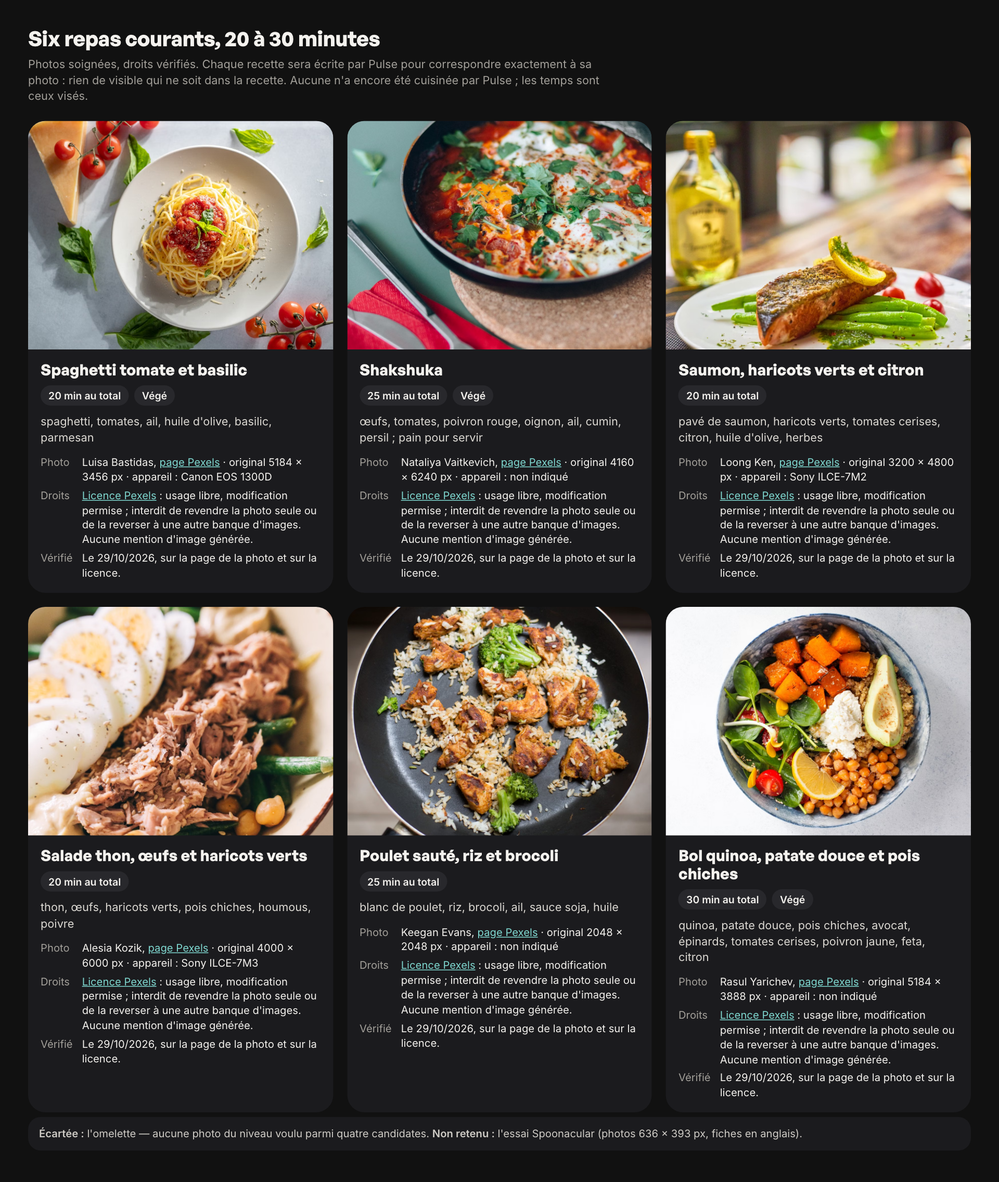
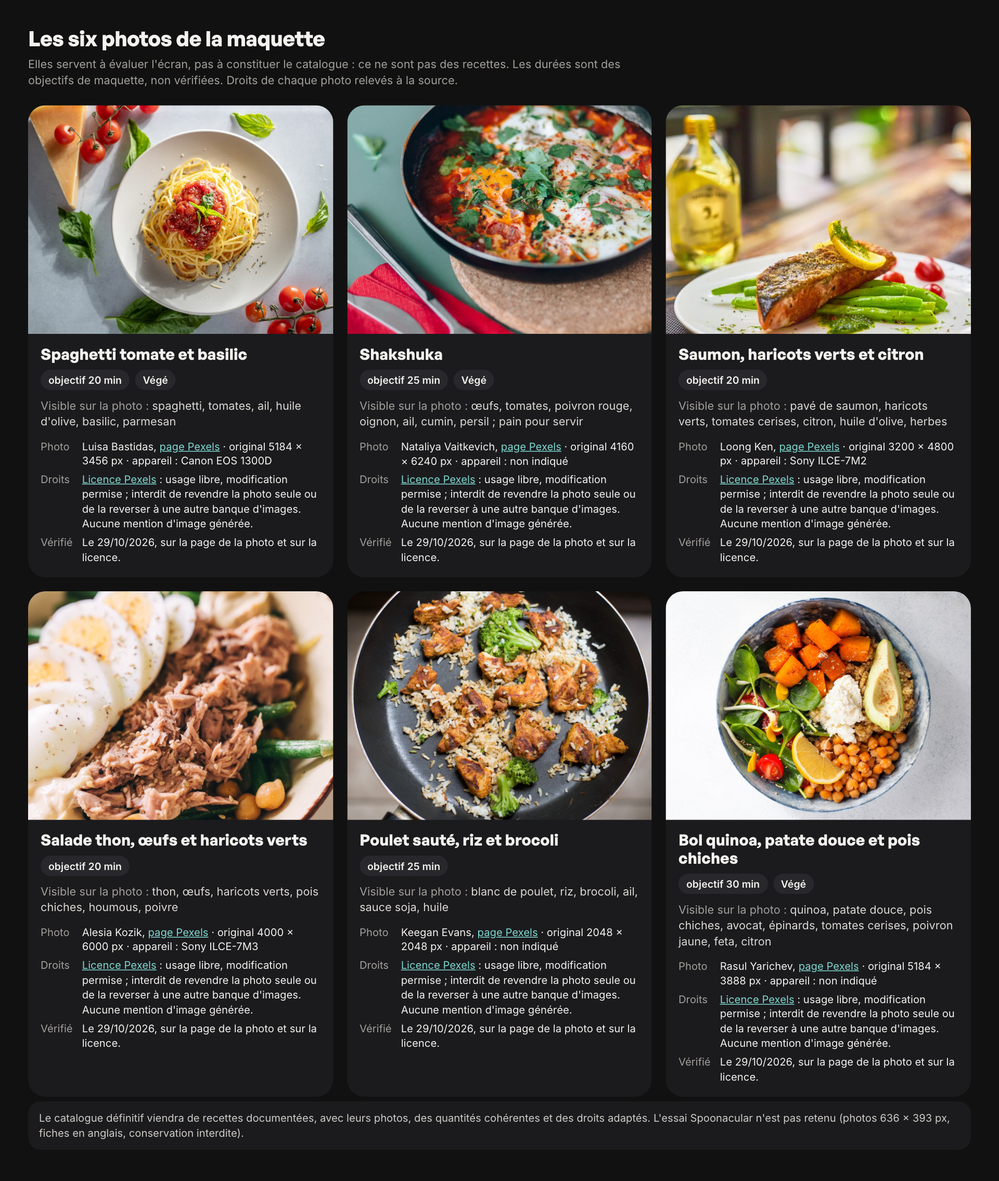
Aperçus : durées marquées objectifs de maquette ; configuration GitHub Pages (.nojekyll, 404, sommaire généré)

diff --git a/recettes-2026-10-29/echantillon.html b/recettes-2026-10-29/echantillon.html
@@ -4,7 +4,7 @@
 <link rel="preconnect" href="https://fonts.googleapis.com"><link rel="preconnect" href="https://api.fontshare.com">
 <link href="https://fonts.googleapis.com/css2?family=Inter:wght@400;500;600&display=swap" rel="stylesheet">
 <link href="https://api.fontshare.com/v2/css?f[]=general-sans@600,700&display=swap" rel="stylesheet">
-<title>Recettes — échantillon de contenu (29/10)</title>
+<title>Recettes — photos de la maquette (29/10)</title>
 <style>
 :root{color-scheme:dark;--fond:#111;--texte:#f4f2ee;--doux:#a3a09a;--carte:#1b1b1e}
 *{box-sizing:border-box;-webkit-tap-highlight-color:transparent}
@@ -29,4 +29,4 @@ a{color:#7fd8d0}
 @media (min-width:1000px){main{max-width:1240px;padding-top:34px}.fiches{display:grid;grid-template-columns:repeat(3,1fr);gap:18px}.fiches article{margin:0}.chapo{max-width:760px}}
 .ecart{background:#1b1b1e;border-radius:16px;padding:12px 14px;font-size:13.5px;color:#cfccc6;margin:6px 0 0}
 
-</style></head><body><main><h1 class="titre">Six repas courants, 20 à 30 minutes</h1><p class="chapo">Photos soignées, droits vérifiés. Chaque recette sera écrite par Pulse pour correspondre exactement à sa photo : rien de visible qui ne soit dans la recette. Aucune n'a encore été cuisinée par Pulse ; les temps sont ceux visés.</p><div class="fiches"><article><img src="https://images.pexels.com/photos/17499948/pexels-photo-17499948.jpeg?auto=compress&cs=tinysrgb&w=1200" alt="Spaghetti tomate et basilic" style="object-position:center"><div class="corps"><h2 class="titre">Spaghetti tomate et basilic</h2><div class="faits"><span>20 min au total</span><span>Végé</span></div><p class="ingredients">spaghetti, tomates, ail, huile d&#x27;olive, basilic, parmesan</p><dl><dt>Photo</dt><dd>Luisa Bastidas, <a href="https://www.pexels.com/photo/top-view-of-spaghetti-pasta-with-tomato-sauce-17499948/">page Pexels</a> · original 5184 × 3456 px · appareil : Canon EOS 1300D</dd><dt>Droits</dt><dd><a href="https://www.pexels.com/license/">Licence Pexels</a> : usage libre, modification permise ; interdit de revendre la photo seule ou de la reverser à une autre banque d'images. Aucune mention d'image générée.</dd><dt>Vérifié</dt><dd>Le 29/10/2026, sur la page de la photo et sur la licence.</dd></dl></div></article><article><img src="https://images.pexels.com/photos/6275165/pexels-photo-6275165.jpeg?auto=compress&cs=tinysrgb&w=1200" alt="Shakshuka" style="object-position:center 30%"><div class="corps"><h2 class="titre">Shakshuka</h2><div class="faits"><span>25 min au total</span><span>Végé</span></div><p class="ingredients">œufs, tomates, poivron rouge, oignon, ail, cumin, persil ; pain pour servir</p><dl><dt>Photo</dt><dd>Nataliya Vaitkevich, <a href="https://www.pexels.com/photo/shakshouka-on-a-pan-6275165/">page Pexels</a> · original 4160 × 6240 px · appareil : non indiqué</dd><dt>Droits</dt><dd><a href="https://www.pexels.com/license/">Licence Pexels</a> : usage libre, modification permise ; interdit de revendre la photo seule ou de la reverser à une autre banque d'images. Aucune mention d'image générée.</dd><dt>Vérifié</dt><dd>Le 29/10/2026, sur la page de la photo et sur la licence.</dd></dl></div></article><article><img src="https://images.pexels.com/photos/4013723/pexels-photo-4013723.jpeg?auto=compress&cs=tinysrgb&w=1200" alt="Saumon, haricots verts et citron" style="object-position:center 62%"><div class="corps"><h2 class="titre">Saumon, haricots verts et citron</h2><div class="faits"><span>20 min au total</span></div><p class="ingredients">pavé de saumon, haricots verts, tomates cerises, citron, huile d&#x27;olive, herbes</p><dl><dt>Photo</dt><dd>Loong Ken, <a href="https://www.pexels.com/photo/roasted-fish-steak-with-green-beans-and-lemon-4013723/">page Pexels</a> · original 3200 × 4800 px · appareil : Sony ILCE-7M2</dd><dt>Droits</dt><dd><a href="https://www.pexels.com/license/">Licence Pexels</a> : usage libre, modification permise ; interdit de revendre la photo seule ou de la reverser à une autre banque d'images. Aucune mention d'image générée.</dd><dt>Vérifié</dt><dd>Le 29/10/2026, sur la page de la photo et sur la licence.</dd></dl></div></article><article><img src="https://images.pexels.com/photos/6544221/pexels-photo-6544221.jpeg?auto=compress&cs=tinysrgb&w=1200" alt="Salade thon, œufs et haricots verts" style="object-position:center"><div class="corps"><h2 class="titre">Salade thon, œufs et haricots verts</h2><div class="faits"><span>20 min au total</span></div><p class="ingredients">thon, œufs, haricots verts, pois chiches, houmous, poivre</p><dl><dt>Photo</dt><dd>Alesia Kozik, <a href="https://www.pexels.com/photo/tuna-and-green-bean-salad-with-egg-in-bowl-6544221/">page Pexels</a> · original 4000 × 6000 px · appareil : Sony ILCE-7M3</dd><dt>Droits</dt><dd><a href="https://www.pexels.com/license/">Licence Pexels</a> : usage libre, modification permise ; interdit de revendre la photo seule ou de la reverser à une autre banque d'images. Aucune mention d'image générée.</dd><dt>Vérifié</dt><dd>Le 29/10/2026, sur la page de la photo et sur la licence.</dd></dl></div></article><article><img src="https://images.pexels.com/photos/105588/pexels-photo-105588.jpeg?auto=compress&cs=tinysrgb&w=1200" alt="Poulet sauté, riz et brocoli" style="object-position:center"><div class="corps"><h2 class="titre">Poulet sauté, riz et brocoli</h2><div class="faits"><span>25 min au total</span></div><p class="ingredients">blanc de poulet, riz, brocoli, ail, sauce soja, huile</p><dl><dt>Photo</dt><dd>Keegan Evans, <a href="https://www.pexels.com/photo/white-rice-chicken-and-broccoli-on-black-non-stick-pan-105588/">page Pexels</a> · original 2048 × 2048 px · appareil : non indiqué</dd><dt>Droits</dt><dd><a href="https://www.pexels.com/license/">Licence Pexels</a> : usage libre, modification permise ; interdit de revendre la photo seule ou de la reverser à une autre banque d'images. Aucune mention d'image générée.</dd><dt>Vérifié</dt><dd>Le 29/10/2026, sur la page de la photo et sur la licence.</dd></dl></div></article><article><img src="https://images.pexels.com/photos/17597408/pexels-photo-17597408.jpeg?auto=compress&cs=tinysrgb&w=1200" alt="Bol quinoa, patate douce et pois chiches" style="object-position:center"><div class="corps"><h2 class="titre">Bol quinoa, patate douce et pois chiches</h2><div class="faits"><span>30 min au total</span><span>Végé</span></div><p class="ingredients">quinoa, patate douce, pois chiches, avocat, épinards, tomates cerises, poivron jaune, feta, citron</p><dl><dt>Photo</dt><dd>Rasul Yarichev, <a href="https://www.pexels.com/photo/a-bowl-with-a-healthy-salad-17597408/">page Pexels</a> · original 5184 × 3888 px · appareil : non indiqué</dd><dt>Droits</dt><dd><a href="https://www.pexels.com/license/">Licence Pexels</a> : usage libre, modification permise ; interdit de revendre la photo seule ou de la reverser à une autre banque d'images. Aucune mention d'image générée.</dd><dt>Vérifié</dt><dd>Le 29/10/2026, sur la page de la photo et sur la licence.</dd></dl></div></article></div><p class="ecart"><b>Écartée :</b> l'omelette — aucune photo du niveau voulu parmi quatre candidates. <b>Non retenu :</b> l'essai Spoonacular (photos 636 × 393 px, fiches en anglais).</p></main></body></html>
+</style></head><body><main><h1 class="titre">Les six photos de la maquette</h1><p class="chapo">Elles servent à évaluer l'écran, pas à constituer le catalogue : ce ne sont pas des recettes. Les durées sont des objectifs de maquette, non vérifiées. Droits de chaque photo relevés à la source.</p><div class="fiches"><article><img src="https://images.pexels.com/photos/17499948/pexels-photo-17499948.jpeg?auto=compress&cs=tinysrgb&w=1200" alt="Spaghetti tomate et basilic" style="object-position:center"><div class="corps"><h2 class="titre">Spaghetti tomate et basilic</h2><div class="faits"><span>objectif 20 min</span><span>Végé</span></div><p class="ingredients"><span style="color:#a3a09a">Visible sur la photo :</span> spaghetti, tomates, ail, huile d&#x27;olive, basilic, parmesan</p><dl><dt>Photo</dt><dd>Luisa Bastidas, <a href="https://www.pexels.com/photo/top-view-of-spaghetti-pasta-with-tomato-sauce-17499948/">page Pexels</a> · original 5184 × 3456 px · appareil : Canon EOS 1300D</dd><dt>Droits</dt><dd><a href="https://www.pexels.com/license/">Licence Pexels</a> : usage libre, modification permise ; interdit de revendre la photo seule ou de la reverser à une autre banque d'images. Aucune mention d'image générée.</dd><dt>Vérifié</dt><dd>Le 29/10/2026, sur la page de la photo et sur la licence.</dd></dl></div></article><article><img src="https://images.pexels.com/photos/6275165/pexels-photo-6275165.jpeg?auto=compress&cs=tinysrgb&w=1200" alt="Shakshuka" style="object-position:center 30%"><div class="corps"><h2 class="titre">Shakshuka</h2><div class="faits"><span>objectif 25 min</span><span>Végé</span></div><p class="ingredients"><span style="color:#a3a09a">Visible sur la photo :</span> œufs, tomates, poivron rouge, oignon, ail, cumin, persil ; pain pour servir</p><dl><dt>Photo</dt><dd>Nataliya Vaitkevich, <a href="https://www.pexels.com/photo/shakshouka-on-a-pan-6275165/">page Pexels</a> · original 4160 × 6240 px · appareil : non indiqué</dd><dt>Droits</dt><dd><a href="https://www.pexels.com/license/">Licence Pexels</a> : usage libre, modification permise ; interdit de revendre la photo seule ou de la reverser à une autre banque d'images. Aucune mention d'image générée.</dd><dt>Vérifié</dt><dd>Le 29/10/2026, sur la page de la photo et sur la licence.</dd></dl></div></article><article><img src="https://images.pexels.com/photos/4013723/pexels-photo-4013723.jpeg?auto=compress&cs=tinysrgb&w=1200" alt="Saumon, haricots verts et citron" style="object-position:center 62%"><div class="corps"><h2 class="titre">Saumon, haricots verts et citron</h2><div class="faits"><span>objectif 20 min</span></div><p class="ingredients"><span style="color:#a3a09a">Visible sur la photo :</span> pavé de saumon, haricots verts, tomates cerises, citron, huile d&#x27;olive, herbes</p><dl><dt>Photo</dt><dd>Loong Ken, <a href="https://www.pexels.com/photo/roasted-fish-steak-with-green-beans-and-lemon-4013723/">page Pexels</a> · original 3200 × 4800 px · appareil : Sony ILCE-7M2</dd><dt>Droits</dt><dd><a href="https://www.pexels.com/license/">Licence Pexels</a> : usage libre, modification permise ; interdit de revendre la photo seule ou de la reverser à une autre banque d'images. Aucune mention d'image générée.</dd><dt>Vérifié</dt><dd>Le 29/10/2026, sur la page de la photo et sur la licence.</dd></dl></div></article><article><img src="https://images.pexels.com/photos/6544221/pexels-photo-6544221.jpeg?auto=compress&cs=tinysrgb&w=1200" alt="Salade thon, œufs et haricots verts" style="object-position:center"><div class="corps"><h2 class="titre">Salade thon, œufs et haricots verts</h2><div class="faits"><span>objectif 20 min</span></div><p class="ingredients"><span style="color:#a3a09a">Visible sur la photo :</span> thon, œufs, haricots verts, pois chiches, houmous, poivre</p><dl><dt>Photo</dt><dd>Alesia Kozik, <a href="https://www.pexels.com/photo/tuna-and-green-bean-salad-with-egg-in-bowl-6544221/">page Pexels</a> · original 4000 × 6000 px · appareil : Sony ILCE-7M3</dd><dt>Droits</dt><dd><a href="https://www.pexels.com/license/">Licence Pexels</a> : usage libre, modification permise ; interdit de revendre la photo seule ou de la reverser à une autre banque d'images. Aucune mention d'image générée.</dd><dt>Vérifié</dt><dd>Le 29/10/2026, sur la page de la photo et sur la licence.</dd></dl></div></article><article><img src="https://images.pexels.com/photos/105588/pexels-photo-105588.jpeg?auto=compress&cs=tinysrgb&w=1200" alt="Poulet sauté, riz et brocoli" style="object-position:center"><div class="corps"><h2 class="titre">Poulet sauté, riz et brocoli</h2><div class="faits"><span>objectif 25 min</span></div><p class="ingredients"><span style="color:#a3a09a">Visible sur la photo :</span> blanc de poulet, riz, brocoli, ail, sauce soja, huile</p><dl><dt>Photo</dt><dd>Keegan Evans, <a href="https://www.pexels.com/photo/white-rice-chicken-and-broccoli-on-black-non-stick-pan-105588/">page Pexels</a> · original 2048 × 2048 px · appareil : non indiqué</dd><dt>Droits</dt><dd><a href="https://www.pexels.com/license/">Licence Pexels</a> : usage libre, modification permise ; interdit de revendre la photo seule ou de la reverser à une autre banque d'images. Aucune mention d'image générée.</dd><dt>Vérifié</dt><dd>Le 29/10/2026, sur la page de la photo et sur la licence.</dd></dl></div></article><article><img src="https://images.pexels.com/photos/17597408/pexels-photo-17597408.jpeg?auto=compress&cs=tinysrgb&w=1200" alt="Bol quinoa, patate douce et pois chiches" style="object-position:center"><div class="corps"><h2 class="titre">Bol quinoa, patate douce et pois chiches</h2><div class="faits"><span>objectif 30 min</span><span>Végé</span></div><p class="ingredients"><span style="color:#a3a09a">Visible sur la photo :</span> quinoa, patate douce, pois chiches, avocat, épinards, tomates cerises, poivron jaune, feta, citron</p><dl><dt>Photo</dt><dd>Rasul Yarichev, <a href="https://www.pexels.com/photo/a-bowl-with-a-healthy-salad-17597408/">page Pexels</a> · original 5184 × 3888 px · appareil : non indiqué</dd><dt>Droits</dt><dd><a href="https://www.pexels.com/license/">Licence Pexels</a> : usage libre, modification permise ; interdit de revendre la photo seule ou de la reverser à une autre banque d'images. Aucune mention d'image générée.</dd><dt>Vérifié</dt><dd>Le 29/10/2026, sur la page de la photo et sur la licence.</dd></dl></div></article></div><p class="ecart">Le catalogue définitif viendra de recettes documentées, avec leurs photos, des quantités cohérentes et des droits adaptés. L'essai Spoonacular n'est pas retenu (photos 636 × 393 px, fiches en anglais, conservation interdite).</p></main></body></html>

diff --git a/recettes-2026-10-29/ecran.html b/recettes-2026-10-29/ecran.html
@@ -17,7 +17,8 @@ img{display:block}
 .entete{position:fixed;top:0;left:50%;transform:translateX(-50%);width:390px;z-index:5}
 .entete img,.barre img{width:390px;height:auto}
 .barre{position:fixed;bottom:0;left:50%;transform:translateX(-50%);width:390px;z-index:5;pointer-events:none}
-main{padding:132px 0 120px}
+main{padding:128px 0 120px}
+.maquette{margin:0 16px 12px;font-size:12px;font-weight:500;color:#8f8c86}
 .rail{display:flex;gap:10px;overflow-x:auto;padding:2px 16px 4px;scrollbar-width:none}
 .rail::-webkit-scrollbar{display:none}
 .rubrique{flex:0 0 66px;text-align:center;text-decoration:none;color:var(--texte)}
@@ -52,4 +53,4 @@ main{padding:132px 0 120px}
 .large .voile{background:linear-gradient(180deg,rgba(0,0,0,0) 30%,rgba(0,0,0,.35) 52%,rgba(0,0,0,.86) 100%)}
 .large h2{margin:0 0 10px;font-size:22px;line-height:1.08;font-weight:700}
 
-</style></head><body><div class="coque"><div class="entete"><img src="img/entete.png" alt="En-tête de l'application : Recettes"></div><main><nav class="rail" aria-label="Rubriques"><a class="rubrique" href="#"><div class="tuile"><img src="img/ill/pates.png" alt=""></div><span>Pâtes</span></a><a class="rubrique" href="#"><div class="tuile"><img src="img/ill/poisson.png" alt=""></div><span>Poisson</span></a><a class="rubrique" href="#"><div class="tuile"><img src="img/ill/poulet.png" alt=""></div><span>Poulet</span></a><a class="rubrique" href="#"><div class="tuile"><img src="img/ill/oeufs.png" alt=""></div><span>Œufs</span></a><a class="rubrique" href="#"><div class="tuile"><img src="img/ill/avocat.png" alt=""></div><span>Végé</span></a><a class="rubrique" href="#"><div class="tuile"><img src="img/ill/riz.png" alt=""></div><span>Riz</span></a></nav><article class="vedette"><img src="https://images.pexels.com/photos/17499948/pexels-photo-17499948.jpeg?auto=compress&cs=tinysrgb&w=1400" alt="Spaghetti tomate et basilic" style="object-position:center"><div class="voile"></div><span class="ajout" aria-label="Ajouter à mes repas"><svg viewBox="0 0 24 24" width="18" height="18" aria-hidden="true"><path d="M12 5v14M5 12h14" stroke="currentColor" stroke-width="2.4" stroke-linecap="round"/></svg></span><div class="bas"><h2 class="titre">Spaghetti tomate et basilic</h2><div class="ligne"><div class="puces"><span class="puce"><svg viewBox="0 0 24 24" width="14" height="14" aria-hidden="true"><circle cx="12" cy="12" r="9" fill="none" stroke="currentColor" stroke-width="2"/><path d="M12 7v5l3 2" fill="none" stroke="currentColor" stroke-width="2" stroke-linecap="round"/></svg>20 min</span><span class="puce">Végé</span></div><div class="ingr"><span><img src="img/ill/pates.png" alt=""></span><span><img src="img/ill/tomate.png" alt=""></span><span><img src="img/ill/basilic.png" alt=""></span></div></div></div></article><section class="grille"><article class="carte"><div class="ph"><img src="https://images.pexels.com/photos/6275165/pexels-photo-6275165.jpeg?auto=compress&cs=tinysrgb&w=800" alt="Shakshuka" style="object-position:center 30%"><span class="ajout" aria-label="Ajouter à mes repas"><svg viewBox="0 0 24 24" width="18" height="18" aria-hidden="true"><path d="M12 5v14M5 12h14" stroke="currentColor" stroke-width="2.4" stroke-linecap="round"/></svg></span></div><h3 class="titre">Shakshuka</h3><p class="meta"><svg viewBox="0 0 24 24" width="14" height="14" aria-hidden="true"><circle cx="12" cy="12" r="9" fill="none" stroke="currentColor" stroke-width="2"/><path d="M12 7v5l3 2" fill="none" stroke="currentColor" stroke-width="2" stroke-linecap="round"/></svg>25 min</p></article><article class="carte"><div class="ph"><img src="https://images.pexels.com/photos/4013723/pexels-photo-4013723.jpeg?auto=compress&cs=tinysrgb&w=800" alt="Saumon, haricots verts et citron" style="object-position:center 62%"><span class="ajout" aria-label="Ajouter à mes repas"><svg viewBox="0 0 24 24" width="18" height="18" aria-hidden="true"><path d="M12 5v14M5 12h14" stroke="currentColor" stroke-width="2.4" stroke-linecap="round"/></svg></span></div><h3 class="titre">Saumon, haricots verts</h3><p class="meta"><svg viewBox="0 0 24 24" width="14" height="14" aria-hidden="true"><circle cx="12" cy="12" r="9" fill="none" stroke="currentColor" stroke-width="2"/><path d="M12 7v5l3 2" fill="none" stroke="currentColor" stroke-width="2" stroke-linecap="round"/></svg>20 min</p></article><article class="carte"><div class="ph"><img src="https://images.pexels.com/photos/6544221/pexels-photo-6544221.jpeg?auto=compress&cs=tinysrgb&w=800" alt="Salade thon, œufs et haricots verts" style="object-position:center"><span class="ajout" aria-label="Ajouter à mes repas"><svg viewBox="0 0 24 24" width="18" height="18" aria-hidden="true"><path d="M12 5v14M5 12h14" stroke="currentColor" stroke-width="2.4" stroke-linecap="round"/></svg></span></div><h3 class="titre">Salade thon, œufs</h3><p class="meta"><svg viewBox="0 0 24 24" width="14" height="14" aria-hidden="true"><circle cx="12" cy="12" r="9" fill="none" stroke="currentColor" stroke-width="2"/><path d="M12 7v5l3 2" fill="none" stroke="currentColor" stroke-width="2" stroke-linecap="round"/></svg>20 min</p></article><article class="carte"><div class="ph"><img src="https://images.pexels.com/photos/105588/pexels-photo-105588.jpeg?auto=compress&cs=tinysrgb&w=800" alt="Poulet sauté, riz et brocoli" style="object-position:center"><span class="ajout" aria-label="Ajouter à mes repas"><svg viewBox="0 0 24 24" width="18" height="18" aria-hidden="true"><path d="M12 5v14M5 12h14" stroke="currentColor" stroke-width="2.4" stroke-linecap="round"/></svg></span></div><h3 class="titre">Poulet, riz, brocoli</h3><p class="meta"><svg viewBox="0 0 24 24" width="14" height="14" aria-hidden="true"><circle cx="12" cy="12" r="9" fill="none" stroke="currentColor" stroke-width="2"/><path d="M12 7v5l3 2" fill="none" stroke="currentColor" stroke-width="2" stroke-linecap="round"/></svg>25 min</p></article></section><article class="large"><img src="https://images.pexels.com/photos/17597408/pexels-photo-17597408.jpeg?auto=compress&cs=tinysrgb&w=1200" alt="Bol quinoa, patate douce et pois chiches" style="object-position:center"><div class="voile"></div><span class="ajout" aria-label="Ajouter à mes repas"><svg viewBox="0 0 24 24" width="18" height="18" aria-hidden="true"><path d="M12 5v14M5 12h14" stroke="currentColor" stroke-width="2.4" stroke-linecap="round"/></svg></span><div class="bas"><h2 class="titre">Bol quinoa, patate douce et pois chiches</h2><div class="ligne"><div class="puces"><span class="puce"><svg viewBox="0 0 24 24" width="14" height="14" aria-hidden="true"><circle cx="12" cy="12" r="9" fill="none" stroke="currentColor" stroke-width="2"/><path d="M12 7v5l3 2" fill="none" stroke="currentColor" stroke-width="2" stroke-linecap="round"/></svg>30 min</span><span class="puce">Végé</span></div><div class="ingr"><span><img src="img/ill/avocat.png" alt=""></span><span><img src="img/ill/pois-chiche.png" alt=""></span><span><img src="img/ill/citron.png" alt=""></span></div></div></div></article></main><div class="barre"><img src="img/barre.png" alt="Barre de navigation de l'application"></div></div></body></html>
+</style></head><body><div class="coque"><div class="entete"><img src="img/entete.png" alt="En-tête de l'application : Recettes"></div><main><p class="maquette">Maquette · photos Pexels · durées visées, non vérifiées</p><nav class="rail" aria-label="Rubriques"><a class="rubrique" href="#"><div class="tuile"><img src="img/ill/pates.png" alt=""></div><span>Pâtes</span></a><a class="rubrique" href="#"><div class="tuile"><img src="img/ill/poisson.png" alt=""></div><span>Poisson</span></a><a class="rubrique" href="#"><div class="tuile"><img src="img/ill/poulet.png" alt=""></div><span>Poulet</span></a><a class="rubrique" href="#"><div class="tuile"><img src="img/ill/oeufs.png" alt=""></div><span>Œufs</span></a><a class="rubrique" href="#"><div class="tuile"><img src="img/ill/avocat.png" alt=""></div><span>Végé</span></a><a class="rubrique" href="#"><div class="tuile"><img src="img/ill/riz.png" alt=""></div><span>Riz</span></a></nav><article class="vedette"><img src="https://images.pexels.com/photos/17499948/pexels-photo-17499948.jpeg?auto=compress&cs=tinysrgb&w=1400" alt="Spaghetti tomate et basilic" style="object-position:center"><div class="voile"></div><span class="ajout" aria-label="Ajouter à mes repas"><svg viewBox="0 0 24 24" width="18" height="18" aria-hidden="true"><path d="M12 5v14M5 12h14" stroke="currentColor" stroke-width="2.4" stroke-linecap="round"/></svg></span><div class="bas"><h2 class="titre">Spaghetti tomate et basilic</h2><div class="ligne"><div class="puces"><span class="puce"><svg viewBox="0 0 24 24" width="14" height="14" aria-hidden="true"><circle cx="12" cy="12" r="9" fill="none" stroke="currentColor" stroke-width="2"/><path d="M12 7v5l3 2" fill="none" stroke="currentColor" stroke-width="2" stroke-linecap="round"/></svg>objectif 20 min</span><span class="puce">Végé</span></div><div class="ingr"><span><img src="img/ill/pates.png" alt=""></span><span><img src="img/ill/tomate.png" alt=""></span><span><img src="img/ill/basilic.png" alt=""></span></div></div></div></article><section class="grille"><article class="carte"><div class="ph"><img src="https://images.pexels.com/photos/6275165/pexels-photo-6275165.jpeg?auto=compress&cs=tinysrgb&w=800" alt="Shakshuka" style="object-position:center 30%"><span class="ajout" aria-label="Ajouter à mes repas"><svg viewBox="0 0 24 24" width="18" height="18" aria-hidden="true"><path d="M12 5v14M5 12h14" stroke="currentColor" stroke-width="2.4" stroke-linecap="round"/></svg></span></div><h3 class="titre">Shakshuka</h3><p class="meta"><svg viewBox="0 0 24 24" width="14" height="14" aria-hidden="true"><circle cx="12" cy="12" r="9" fill="none" stroke="currentColor" stroke-width="2"/><path d="M12 7v5l3 2" fill="none" stroke="currentColor" stroke-width="2" stroke-linecap="round"/></svg>objectif 25 min</p></article><article class="carte"><div class="ph"><img src="https://images.pexels.com/photos/4013723/pexels-photo-4013723.jpeg?auto=compress&cs=tinysrgb&w=800" alt="Saumon, haricots verts et citron" style="object-position:center 62%"><span class="ajout" aria-label="Ajouter à mes repas"><svg viewBox="0 0 24 24" width="18" height="18" aria-hidden="true"><path d="M12 5v14M5 12h14" stroke="currentColor" stroke-width="2.4" stroke-linecap="round"/></svg></span></div><h3 class="titre">Saumon, haricots verts</h3><p class="meta"><svg viewBox="0 0 24 24" width="14" height="14" aria-hidden="true"><circle cx="12" cy="12" r="9" fill="none" stroke="currentColor" stroke-width="2"/><path d="M12 7v5l3 2" fill="none" stroke="currentColor" stroke-width="2" stroke-linecap="round"/></svg>objectif 20 min</p></article><article class="carte"><div class="ph"><img src="https://images.pexels.com/photos/6544221/pexels-photo-6544221.jpeg?auto=compress&cs=tinysrgb&w=800" alt="Salade thon, œufs et haricots verts" style="object-position:center"><span class="ajout" aria-label="Ajouter à mes repas"><svg viewBox="0 0 24 24" width="18" height="18" aria-hidden="true"><path d="M12 5v14M5 12h14" stroke="currentColor" stroke-width="2.4" stroke-linecap="round"/></svg></span></div><h3 class="titre">Salade thon, œufs</h3><p class="meta"><svg viewBox="0 0 24 24" width="14" height="14" aria-hidden="true"><circle cx="12" cy="12" r="9" fill="none" stroke="currentColor" stroke-width="2"/><path d="M12 7v5l3 2" fill="none" stroke="currentColor" stroke-width="2" stroke-linecap="round"/></svg>objectif 20 min</p></article><article class="carte"><div class="ph"><img src="https://images.pexels.com/photos/105588/pexels-photo-105588.jpeg?auto=compress&cs=tinysrgb&w=800" alt="Poulet sauté, riz et brocoli" style="object-position:center"><span class="ajout" aria-label="Ajouter à mes repas"><svg viewBox="0 0 24 24" width="18" height="18" aria-hidden="true"><path d="M12 5v14M5 12h14" stroke="currentColor" stroke-width="2.4" stroke-linecap="round"/></svg></span></div><h3 class="titre">Poulet, riz, brocoli</h3><p class="meta"><svg viewBox="0 0 24 24" width="14" height="14" aria-hidden="true"><circle cx="12" cy="12" r="9" fill="none" stroke="currentColor" stroke-width="2"/><path d="M12 7v5l3 2" fill="none" stroke="currentColor" stroke-width="2" stroke-linecap="round"/></svg>objectif 25 min</p></article></section><article class="large"><img src="https://images.pexels.com/photos/17597408/pexels-photo-17597408.jpeg?auto=compress&cs=tinysrgb&w=1200" alt="Bol quinoa, patate douce et pois chiches" style="object-position:center"><div class="voile"></div><span class="ajout" aria-label="Ajouter à mes repas"><svg viewBox="0 0 24 24" width="18" height="18" aria-hidden="true"><path d="M12 5v14M5 12h14" stroke="currentColor" stroke-width="2.4" stroke-linecap="round"/></svg></span><div class="bas"><h2 class="titre">Bol quinoa, patate douce et pois chiches</h2><div class="ligne"><div class="puces"><span class="puce"><svg viewBox="0 0 24 24" width="14" height="14" aria-hidden="true"><circle cx="12" cy="12" r="9" fill="none" stroke="currentColor" stroke-width="2"/><path d="M12 7v5l3 2" fill="none" stroke="currentColor" stroke-width="2" stroke-linecap="round"/></svg>objectif 30 min</span><span class="puce">Végé</span></div><div class="ingr"><span><img src="img/ill/avocat.png" alt=""></span><span><img src="img/ill/pois-chiche.png" alt=""></span><span><img src="img/ill/citron.png" alt=""></span></div></div></div></article></main><div class="barre"><img src="img/barre.png" alt="Barre de navigation de l'application"></div></div></body></html>

diff --git a/index.html b/index.html
@@ -1,27 +1,14 @@
 <!doctype html><html lang="fr"><head><meta charset="utf-8">
-<meta name="viewport" content="width=device-width, initial-scale=1">
-<meta name="robots" content="noindex, nofollow">
+<meta name="viewport" content="width=device-width, initial-scale=1"><meta name="robots" content="noindex, nofollow">
 <title>Pulse — aperçus de travail</title>
-<style>
-:root{color-scheme:dark}body{margin:0;background:#111;color:#f4f2ee;font:16px/1.5 -apple-system,system-ui,sans-serif}
-main{max-width:720px;margin:0 auto;padding:28px 18px 48px}h1{font-size:26px;margin:0 0 6px}h2{font-size:19px;margin:28px 0 8px}
-p{color:#a3a09a;margin:0 0 10px;font-size:14.5px}ul{padding-left:20px;margin:6px 0}li{margin:6px 0}a{color:#7fd8d0}
-.png{display:grid;grid-template-columns:1fr 1fr;gap:12px;margin-top:12px}.png a{display:block;background:#1b1b1e;border-radius:14px;padding:8px;text-decoration:none;color:#ddd;font-size:13px}
+<style>:root{color-scheme:dark}body{margin:0;background:#111;color:#f4f2ee;font:16px/1.5 -apple-system,system-ui,sans-serif}
+main{max-width:760px;margin:0 auto;padding:28px 18px 48px}h1{font-size:26px;margin:0 0 6px}h2{font-size:19px;margin:30px 0 4px}
+p{color:#a3a09a;margin:0 0 10px;font-size:14.5px}ul{padding-left:20px;margin:8px 0}li{margin:5px 0}a{color:#7fd8d0}
+.grille{display:grid;grid-template-columns:1fr 1fr;gap:12px;margin-top:12px}
+.png{display:block;background:#1b1b1e;border-radius:14px;padding:8px;text-decoration:none;color:#ddd;font-size:13px}
 .png img{width:100%;height:220px;object-fit:cover;object-position:top;border-radius:9px;display:block;margin-bottom:6px}
-</style></head><body><main>
+code{color:#8f8c86;font-size:12px}</style></head><body><main>
 <h1>Pulse — aperçus de travail</h1>
 <p>Aperçus statiques, séparés de la production, non indexés. Rien ici n'est publié dans l'application.</p>
-<h2>Recettes · 29/10/2026</h2>
-<ul>
-<li><a href="recettes-2026-10-29/echantillon.html">Échantillon de contenu</a> : six repas courants de 20 à 30 min, photos et droits vérifiés.</li>
-<li><a href="recettes-2026-10-29/ecran.html">Écran proposé</a> : Recettes dans l'application installée (à ouvrir sur téléphone).</li>
-</ul>
-<p>Captures PNG, liens directs :</p>
-<div class="png">
-<a href="recettes-2026-10-29/captures/ecran-iphone.png"><img src="recettes-2026-10-29/captures/ecran-iphone.png" alt="">ecran-iphone.png · premier écran, iPhone (1170 × 2532)</a>
-<a href="recettes-2026-10-29/captures/ecran-iphone-complet.png"><img src="recettes-2026-10-29/captures/ecran-iphone-complet.png" alt="">ecran-iphone-complet.png · écran entier</a>
-<a href="recettes-2026-10-29/captures/echantillon-planche.png"><img src="recettes-2026-10-29/captures/echantillon-planche.png" alt="">echantillon-planche.png · les six, sur une planche</a>
-<a href="recettes-2026-10-29/captures/echantillon-iphone-complet.png"><img src="recettes-2026-10-29/captures/echantillon-iphone-complet.png" alt="">echantillon-iphone-complet.png · échantillon sur iPhone</a>
-</div>
-<p style="margin-top:22px">Photos : Pexels, licence Pexels, crédits sur la page d'échantillon. Illustrations d'ingrédients, en-tête et barre de navigation : Pulse.</p>
+<section><h2>Recettes — écran proposé et photos de la maquette</h2><p class="date">29/10/2026 · Photos Pexels utilisées pour évaluer l&#x27;écran, pas pour le catalogue ; durées = objectifs de maquette, non vérifiées.</p><ul><li><a href="recettes-2026-10-29/ecran.html">Écran proposé (à ouvrir sur téléphone)</a></li><li><a href="recettes-2026-10-29/echantillon.html">Les six photos, avec leurs droits</a></li></ul><div class="grille"><a class="png" href="recettes-2026-10-29/captures/ecran-iphone.png"><img src="recettes-2026-10-29/captures/ecran-iphone.png" alt="" loading="lazy">Premier écran, iPhone<br><code>ecran-iphone.png</code></a><a class="png" href="recettes-2026-10-29/captures/ecran-iphone-complet.png"><img src="recettes-2026-10-29/captures/ecran-iphone-complet.png" alt="" loading="lazy">Écran entier<br><code>ecran-iphone-complet.png</code></a><a class="png" href="recettes-2026-10-29/captures/echantillon-planche.png"><img src="recettes-2026-10-29/captures/echantillon-planche.png" alt="" loading="lazy">Les six photos et leurs droits, sur une planche<br><code>echantillon-planche.png</code></a><a class="png" href="recettes-2026-10-29/captures/echantillon-iphone-complet.png"><img src="recettes-2026-10-29/captures/echantillon-iphone-complet.png" alt="" loading="lazy">Les six photos, sur iPhone<br><code>echantillon-iphone-complet.png</code></a></div></section>
 </main></body></html>

diff --git a/404.html b/404.html
@@ -1,0 +1,3 @@
+<!doctype html><html lang="fr"><head><meta charset="utf-8"><meta name="viewport" content="width=device-width, initial-scale=1"><meta name="robots" content="noindex, nofollow"><title>Introuvable — aperçus Pulse</title>
+<style>body{margin:0;background:#111;color:#f4f2ee;font:16px/1.5 -apple-system,system-ui,sans-serif}main{max-width:640px;margin:0 auto;padding:40px 18px}a{color:#7fd8d0}</style></head>
+<body><main><h1>Cet aperçu n'existe pas, ou plus.</h1><p><a href="/">Tous les aperçus</a></p></main></body></html>

diff --git a/README.md b/README.md
@@ -1,0 +1,14 @@
+# Pulse — aperçus de travail
+
+Dépôt réservé aux aperçus et aux captures de Pulse : rien ici n'est le code ni la production. Pages et PNG servis par GitHub Pages ; liens directs ci-dessous.
+
+## Recettes — écran proposé et photos de la maquette (29/10/2026)
+
+Photos Pexels utilisées pour évaluer l'écran, pas pour le catalogue ; durées = objectifs de maquette, non vérifiées.
+
+- Écran proposé (à ouvrir sur téléphone) : https://castillet66.github.io/recettes-2026-10-29/ecran.html
+- Les six photos, avec leurs droits : https://castillet66.github.io/recettes-2026-10-29/echantillon.html
+- PNG — Premier écran, iPhone : https://castillet66.github.io/recettes-2026-10-29/captures/ecran-iphone.png
+- PNG — Écran entier : https://castillet66.github.io/recettes-2026-10-29/captures/ecran-iphone-complet.png
+- PNG — Les six photos et leurs droits, sur une planche : https://castillet66.github.io/recettes-2026-10-29/captures/echantillon-planche.png
+- PNG — Les six photos, sur iPhone : https://castillet66.github.io/recettes-2026-10-29/captures/echantillon-iphone-complet.png
